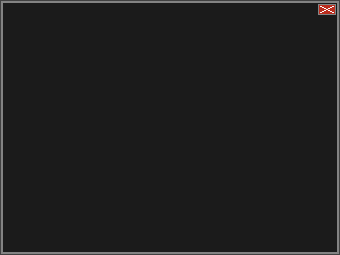
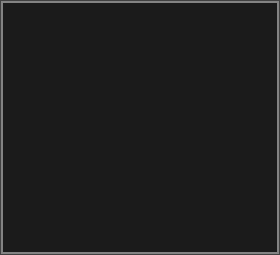
added closequestiondialogbutton reworked renderobjects list

Changed region(s): [[0.9143, 0.0, 1.0, 0.9882], [0.0, 0.0275, 0.0286, 0.9882]]

diff --git a/src/com/through_other_eyes/enu/core/GameCore.java b/src/com/through_other_eyes/enu/core/GameCore.java
@@ -7,6 +7,7 @@ package com.through_other_eyes.enu.core;
 
 import com.through_other_eyes.enu.obj.MainMenu;
 import com.through_other_eyes.enu.obj.Map;
+import com.through_other_eyes.enu.obj.QuestionDialog;
 import com.through_other_eyes.enu.obj.SplashScreen;
 import com.through_other_eyes.enu.obj.base.GameComponent;
 import com.through_other_eyes.enu.obj.base.UIElement;
@@ -16,10 +17,12 @@ import com.through_other_eyes.enu.util.WindowController;
 import java.awt.DisplayMode;
 import java.awt.GraphicsDevice;
 import java.awt.GraphicsEnvironment;
+import java.io.File;
 import java.io.IOException;
 import java.util.ArrayList;
 import java.util.logging.Level;
 import java.util.logging.Logger;
+import javax.imageio.ImageIO;
 import javax.swing.JFrame;
 import javax.swing.SwingUtilities;
 
@@ -37,28 +40,31 @@ public class GameCore extends JFrame {
     public static final int REFRESH_RATE = 60;
     public static final int UPDATE_RATE = 30;
     public static final long UPDATE_PERIOD = (long) 1e9 / UPDATE_RATE;
-    
+
     /**
      * Static enum for states of the game
      */
     public static enum State {
+
         SPLASHSCREEN, MAINMENU, PLAY, PAUSED, GAMEOVER, SHUTDOWN
     }
-    
+
     /**
      * Static enum for the alignment of the buttons on the UI
      */
     public static enum Align {
+
         LEFT, CENTER, RIGHT, NOTHING
     }
-    
+
     /**
      * Static enum for the different states of a buton
      */
     public static enum UIElementState {
+
         DEFAULT, HOVER
     }
-    
+
     // Static variables to access data like state of the game, fps or dt
     public static State state = State.SPLASHSCREEN;
     public static int fps;
@@ -67,7 +73,8 @@ public class GameCore extends JFrame {
     public static long startTime;
     public static MainMenu mainMenu;
     public static Map map;
-    
+    public static QuestionDialog questionDialog;
+
     // Instances for fullscreen handling
     private final GraphicsDevice device;
     private DisplayMode originalDisplayMode;
@@ -75,7 +82,10 @@ public class GameCore extends JFrame {
 
     // Panel for drawing the GameObjects
     private GamePanel gamePanel;
-    private ArrayList<GameComponent> renderObjects;
+    private ArrayList<ArrayList<GameComponent>> renderObjects;
+    private ArrayList<GameComponent> splashscreenRenderObjects;
+    private ArrayList<GameComponent> mainMenuRenderObjects;
+    private ArrayList<GameComponent> playRenderObjects;
 
     // SplashScreen that is shown on startup
     //private SplashScreen splash = null;
@@ -83,24 +93,36 @@ public class GameCore extends JFrame {
     private WindowController windowController;
     private KeyInputController keyInputController;
     private MouseInputController mouseInputController;
-    
+
     // </editor-fold>
     public GameCore(GraphicsDevice graphicsDevice) {
         device = graphicsDevice;
         renderObjects = new ArrayList<>();
+        splashscreenRenderObjects = new ArrayList<>();
+        mainMenuRenderObjects = new ArrayList<>();
+        playRenderObjects = new ArrayList<>();
         startTime = System.currentTimeMillis();
-        
+
         initialize();
-        
+
         try {
             mainMenu = new MainMenu();
-            renderObjects.add(mainMenu);
-            map = new Map();
-            renderObjects.add(map);
+            map = new Map(ImageIO.read(new File("res" + File.separator + "map_small.png")));
+            map.setUpdateRequired(false);
+            questionDialog = new QuestionDialog(ImageIO.read(new File("res" + File.separator + "questiondialog.png")), GameCore.Align.CENTER, 0, 60);
+            //questionDialog.setVisible(true);
+            
+            mainMenuRenderObjects.add(mainMenu);
+            playRenderObjects.add(map);
+            playRenderObjects.add(questionDialog);
+            
+            renderObjects.add(splashscreenRenderObjects);
+            renderObjects.add(mainMenuRenderObjects);
+            renderObjects.add(playRenderObjects);
         } catch (IOException ex) {
             Logger.getLogger(GameCore.class.getName()).log(Level.SEVERE, null, ex);
         }
-        
+
         setVisible(true);
     }
 
@@ -119,9 +141,9 @@ public class GameCore extends JFrame {
         windowController = new WindowController();
         keyInputController = new KeyInputController();
         mouseInputController = new MouseInputController();
-        
+
         setDefaultCloseOperation(DO_NOTHING_ON_CLOSE);
-        
+
         addWindowListener(windowController);
         addKeyListener(keyInputController);
         addMouseListener(mouseInputController);
@@ -132,7 +154,7 @@ public class GameCore extends JFrame {
     private void initializeSplashScreen() {
         //Ingame SplashScreen
         try {
-            renderObjects.add(new SplashScreen());
+            splashscreenRenderObjects.add(new SplashScreen());
         } catch (IOException ex) {
             Logger.getLogger(GameCore.class.getName()).log(Level.SEVERE, null, ex);
         }
@@ -198,10 +220,12 @@ public class GameCore extends JFrame {
                 shutdown();
                 break;
         }
-        for (GameComponent object : renderObjects) {
-            if (object.isUpdateRequired()) {
-                object.update();
-                object.move(dt);
+        for (ArrayList<GameComponent> activeRenderObjects : renderObjects) {
+            for (GameComponent object : activeRenderObjects) {
+                if (object.isUpdateRequired()) {
+                    object.update();
+                    object.move(dt);
+                }
             }
         }
     }
@@ -223,7 +247,7 @@ public class GameCore extends JFrame {
     private void shutdown() {
         System.exit(0);
     }
-    
+
     // <editor-fold defaultstate="collapsed" desc="Main">
     public static void main(String[] args) {
         SwingUtilities.invokeLater(new Runnable() {

diff --git a/src/com/through_other_eyes/enu/core/GamePanel.java b/src/com/through_other_eyes/enu/core/GamePanel.java
@@ -23,10 +23,10 @@ import javax.swing.JPanel;
  */
 public class GamePanel extends JPanel {
 
-    private ArrayList<GameComponent> renderObjects;
+    private ArrayList<ArrayList<GameComponent>> renderObjects;
     public static Graphics2D g2;
     
-    public GamePanel(int width, int height, ArrayList<GameComponent> renderObjects) {
+    public GamePanel(int width, int height, ArrayList<ArrayList<GameComponent>> renderObjects) {
         this.setPreferredSize(new Dimension(width, height));
         this.renderObjects = renderObjects;
         this.setDoubleBuffered(true);
@@ -39,24 +39,25 @@ public class GamePanel extends JPanel {
 
         switch (GameCore.state) {
             case SPLASHSCREEN:
-                for (GameComponent gameComponent : renderObjects) {
-                    if (gameComponent.isVisible() && gameComponent instanceof SplashScreen) {
+                for (GameComponent gameComponent : renderObjects.get(0)) {
+                    if (gameComponent.isVisible()) {
                         gameComponent.drawObject(g2);
                     }
                 }
                 break;
 
             case MAINMENU:
-                for (GameComponent gameComponent : renderObjects) {
-                    if (gameComponent.isVisible() && gameComponent instanceof MainMenu) {
+                for (GameComponent gameComponent : renderObjects.get(1)) {
+                    if (gameComponent.isVisible()) {
                         gameComponent.drawObject(g2);
                     }
                 }
                 break;
             case PLAY:
-                for (GameComponent gameComponent : renderObjects) {
-                    if (gameComponent.isVisible() && gameComponent instanceof Map) {
+                for (GameComponent gameComponent : renderObjects.get(2)) {
+                    if (gameComponent.isVisible()) {
                         gameComponent.drawObject(g2);
+                        System.out.println(gameComponent);
                     }
                 }
                 break;
@@ -76,7 +77,7 @@ public class GamePanel extends JPanel {
         g2.drawString("---------------------------------------", 2, 20);
         g2.drawString("GAMESTATE: " + GameCore.state, 2, 30);
         g2.drawString("FPS: " + Long.toString(GameCore.fps), 2, 42);
-        g2.drawString("DT: " + GameCore.dt, 2, 54);
+        g2.drawString("DELTATIME: " + GameCore.dt, 2, 54);
         g2.drawString(String.format("TOTAL MEMORY: %dMB", Runtime.getRuntime().totalMemory() / 1024 / 1024), 2, 66);
         g2.drawString(String.format("USED MEMORY: %dMB", (Runtime.getRuntime().totalMemory() - Runtime.getRuntime().freeMemory()) / 1024 / 1024), 2, 78);
         g2.drawString(time(), 2, 90);

diff --git a/src/com/through_other_eyes/enu/obj/CloseQuestionDialogButton.java b/src/com/through_other_eyes/enu/obj/CloseQuestionDialogButton.java
@@ -18,38 +18,27 @@
 package com.through_other_eyes.enu.obj;
 
 import com.through_other_eyes.enu.core.GameCore;
-import com.through_other_eyes.enu.obj.base.UIElement;
-import java.awt.Graphics2D;
+import com.through_other_eyes.enu.obj.base.Button;
 import java.awt.Point;
 import java.awt.image.BufferedImage;
-import java.io.File;
-import java.io.IOException;
-import javax.imageio.ImageIO;
 
 /**
  *
  * @author mwahlhuetter <m.wahl1996 at gmail.com>
  */
-public class QuestionDialog extends UIElement{
+public class CloseQuestionDialogButton extends Button{
 
-    private String Text;
-    private CloseQuestionDialogButton cqdb;
-    
-    public QuestionDialog(Point position, BufferedImage elementImage) throws IOException {
+    public CloseQuestionDialogButton(Point position, BufferedImage elementImage) {
         super(position, elementImage);
-        cqdb = new CloseQuestionDialogButton(ImageIO.read(new File("res" + File.separator + "closequestiondialogbutton.png")), GameCore.Align.CENTER, 0, 64);
-        setVisible(false);
-    }
-    
-    public QuestionDialog(BufferedImage elementImage, GameCore.Align align, int offset, int y) throws IOException {
-        super(elementImage, align, offset, y);
-        cqdb = new CloseQuestionDialogButton(ImageIO.read(new File("res" + File.separator + "closequestiondialogbutton.png")), GameCore.Align.CENTER, 0, 64);
-        setVisible(false);
     }
 
+    public CloseQuestionDialogButton(BufferedImage elementImage, GameCore.Align align, int offset, int y) {
+        super(elementImage, align, offset, y);
+    }
+    
     @Override
     public void clicked() {
-        
+        GameCore.questionDialog.setVisible(false);
     }
 
     @Override
@@ -58,19 +47,5 @@ public class QuestionDialog extends UIElement{
 
     @Override
     public void leaveElement() {
-    }
-
-    @Override
-    public void update() {
-    }
-
-    @Override
-    public void drawObject(Graphics2D g2) {
-        g2.drawImage(getElementImage(), getPosition().x, getPosition().y, getDimension().width, getDimension().height, null);
-        cqdb.drawObject(g2);
-    }
-
-    @Override
-    public void move(float delta) {
     }
 }

diff --git a/src/com/through_other_eyes/enu/obj/Map.java b/src/com/through_other_eyes/enu/obj/Map.java
@@ -11,9 +11,12 @@ import com.through_other_eyes.enu.obj.base.UIElement;
 import java.awt.Dimension;
 import java.awt.Graphics2D;
 import java.awt.Point;
+import java.awt.image.BufferedImage;
 import java.io.File;
 import java.io.IOException;
 import java.util.ArrayList;
+import java.util.logging.Level;
+import java.util.logging.Logger;
 import javax.imageio.ImageIO;
 
 /**
@@ -24,20 +27,30 @@ public class Map extends GameComponent {
 
     private ArrayList<GameComponent> mapLayer = new ArrayList<>();
     private ArrayList<UIElement> uiElements = new ArrayList<>();
+    private BufferedImage mapImage;
     
-    public Map() throws IOException {
+    public Map(BufferedImage mapImage) throws IOException {
         InstitutionMenu instMenu = new InstitutionMenu(ImageIO.read(new File("res" + File.separator + "institutionmenu.png")), GameCore.Align.CENTER, 0, 0);
         uiElements.add(instMenu);
+        this.mapImage = mapImage;
     }
     
     @Override
     public void update() {
+//        x = x!=1 ? 1 : -1;
+//        y = x!=1 ? 1 : -1;
     }
 
+    int x,y;
+    
     @Override
     public void drawObject(Graphics2D g2) {
+        g2.drawImage(mapImage, x, y, null);
         for (UIElement uilement : uiElements) {
-            uilement.drawObject(g2);
+            if(uilement.isVisible())
+            {
+                uilement.drawObject(g2);
+            }
         }
     }
 

diff --git a/src/com/through_other_eyes/enu/obj/InstitutionMenu.java b/src/com/through_other_eyes/enu/obj/InstitutionMenu.java
@@ -36,12 +36,10 @@ public class InstitutionMenu extends UIElement{
         
         uiElements.add(cbb);
         uiElements.add(chb);
-        //uiElements.add(cbb3);
         //uiElements.add(cbb4);
         
         buttonGroup.addButton(cbb);
         buttonGroup.addButton(chb);
-        //buttonGroup.addButton(cbb3);
         //buttonGroup.addButton(cbb4);
     }
 
@@ -56,7 +54,10 @@ public class InstitutionMenu extends UIElement{
         g2.drawImage(getElementImage(), getPosition().x, getPosition().y, null);
         for(UIElement uiElement : uiElements)
         {
-            uiElement.drawObject(g2);
+            if(uiElement.isVisible())
+            {
+                uiElement.drawObject(g2);
+            }
         }
     }
 

diff --git a/src/com/through_other_eyes/enu/obj/base/GameComponent.java b/src/com/through_other_eyes/enu/obj/base/GameComponent.java
@@ -75,8 +75,5 @@ public abstract class GameComponent implements Drawable, Moveable{
 
     public void setUpdateRequired(boolean updateRequired) {
         this.updateRequired = updateRequired;
-        if(!updateRequired) {
-            this.setVisible(false);
-        }
     }
 }

diff --git a/src/com/through_other_eyes/enu/obj/PlayButton.java b/src/com/through_other_eyes/enu/obj/PlayButton.java
@@ -31,6 +31,7 @@ public class PlayButton extends Button {
     @Override
     public void clicked() {
         GameCore.state = GameCore.State.PLAY;
+        GameCore.map.setUpdateRequired(true);
         //GameCore.renderOb.add(new Map());
     }
 

diff --git a/src/com/through_other_eyes/enu/obj/CentralBankButton.java b/src/com/through_other_eyes/enu/obj/CentralBankButton.java
@@ -37,7 +37,7 @@ public class CentralBankButton extends ToggleButton {
 
     @Override
     public void clicked() {
-        super.clicked();
+        GameCore.questionDialog.setVisible(true);
     }
 
     @Override
